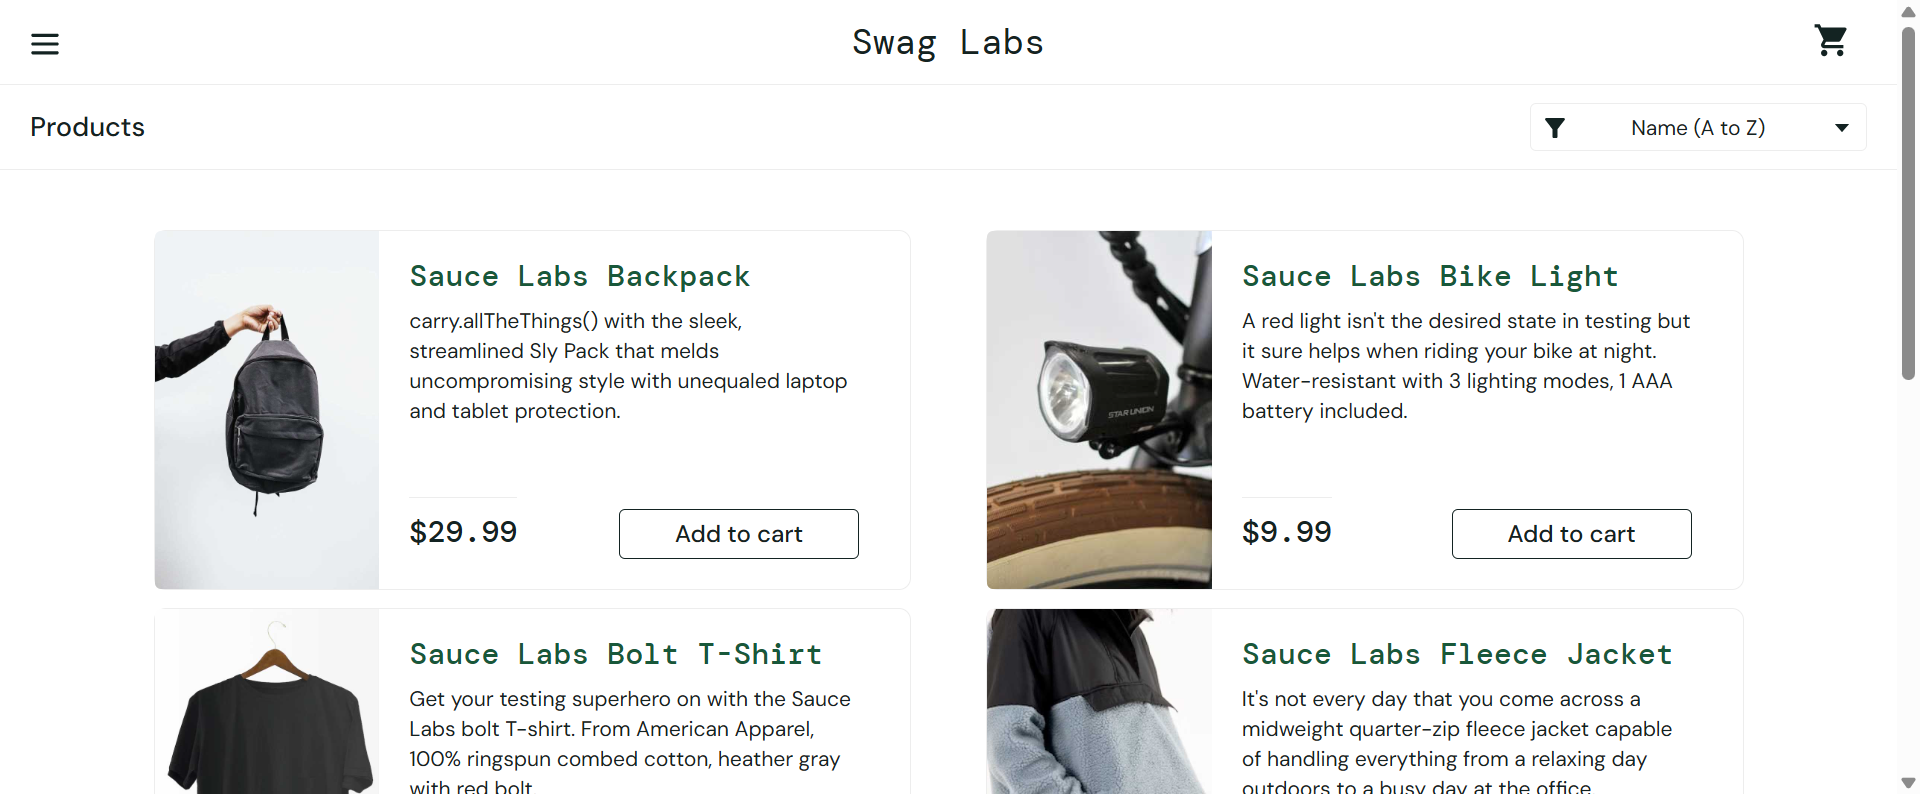
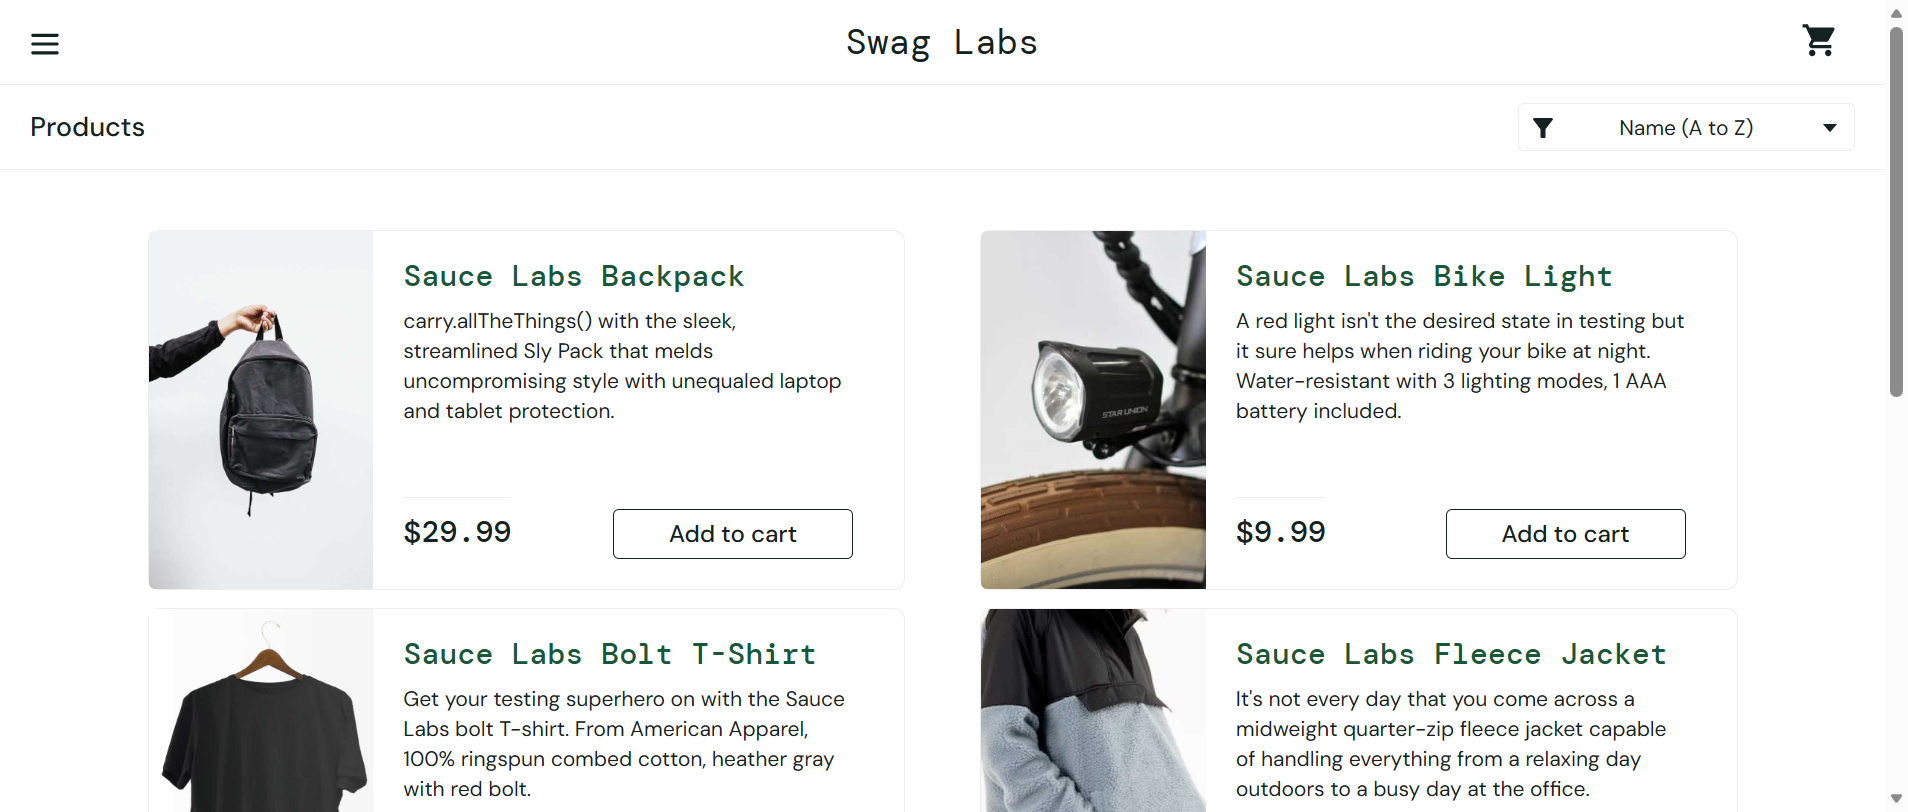
Added cross browser testing, DataProvider and parallel execution

diff --git a/src/test/java/com/saucedemo/base/BaseTest.java b/src/test/java/com/saucedemo/base/BaseTest.java
@@ -4,8 +4,11 @@ import java.time.Duration;
 
 import org.openqa.selenium.WebDriver;
 import org.openqa.selenium.chrome.ChromeDriver;
+import org.openqa.selenium.edge.EdgeDriver;
 import org.testng.annotations.AfterMethod;
 import org.testng.annotations.BeforeMethod;
+import org.testng.annotations.Optional;
+import org.testng.annotations.Parameters;
 
 import com.saucedemo.utils.ConfigReader;
 
@@ -13,25 +16,41 @@ import io.github.bonigarcia.wdm.WebDriverManager;
 
 public class BaseTest {
 
-    protected WebDriver driver;
-
+	protected WebDriver driver;
+    ConfigReader cr= new ConfigReader();
+    
+    @Parameters("browser")
     @BeforeMethod
-    public void setup() {
-      ConfigReader cr= new ConfigReader();
-
-        
-        WebDriverManager.chromedriver().setup();
-         driver = new ChromeDriver();
+    public void setup(@Optional("chrome")String browser) {
+      if(browser.equalsIgnoreCase("chrome")||browser.equalsIgnoreCase("ch"))
+      {
+    	  WebDriverManager.chromedriver().setup();
+    	  driver=new ChromeDriver();
+    	  
+      }
+      else if(browser.equalsIgnoreCase("edge"))
+      {
+    	  
+    	  driver=new EdgeDriver();
+    	  
+      }
+      
+      else { throw new IllegalArgumentException("Invalid browser name: " + browser);}
+      
         driver.manage().window().maximize();
         driver.manage().timeouts().implicitlyWait(Duration.ofSeconds(10));
         driver.get(cr.getDataFromConfigReader("url"));
     }
 
-    @AfterMethod
-    public void tearDown() {
+   @AfterMethod
+   public void tearDown() {
 
-        if (driver != null) {
-            driver.quit();
-        }
+       if (driver != null) {
+          driver.quit();
+       }
     }
+
+   public WebDriver getDriver() {
+	    return driver;
+	}
 }

diff --git a/src/test/java/com/saucedemo/utils/ScreenShotUtility.java b/src/test/java/com/saucedemo/utils/ScreenShotUtility.java
@@ -2,34 +2,37 @@ package com.saucedemo.utils;
 
 import java.io.File;
 import java.io.IOException;
+import java.nio.file.Files;
+import java.nio.file.StandardCopyOption;
 
-import org.apache.commons.io.FileUtils;
 import org.openqa.selenium.OutputType;
 import org.openqa.selenium.TakesScreenshot;
 import org.openqa.selenium.WebDriver;
 
 public class ScreenShotUtility {
 
-	  public static void captureScreenshot(WebDriver driver, String testName) {
+    public static void captureScreenshot(WebDriver driver, String fileName) {
 
+        if (driver == null) {
+            System.out.println("Driver is null. Screenshot not captured.");
+            return;
+        }
 
-		    TakesScreenshot ts = (TakesScreenshot) driver;
-		    File src = ts.getScreenshotAs(OutputType.FILE);
+        try {
+            TakesScreenshot ts = (TakesScreenshot) driver;
 
-		    // screenshots folder create hoga agar nahi hai
-		    File folder = new File("./screenshots");
+            File src = ts.getScreenshotAs(OutputType.FILE);
 
-		    if (!folder.exists()) {
-		        folder.mkdir();
-		    }
+            File dest = new File("Screenshots/" + fileName + ".png");
 
-		    File dest = new File(folder, testName + ".png");
+            dest.getParentFile().mkdirs();
 
-		    try {
-		        FileUtils.copyFile(src, dest);
-		        System.out.println("Screenshot saved successfully");
-		    } catch (IOException e) {
-		        e.printStackTrace();
-		    }
-	    }
+            Files.copy(src.toPath(), dest.toPath(), StandardCopyOption.REPLACE_EXISTING);
+
+            System.out.println("Screenshot saved successfully");
+
+        } catch (IOException e) {
+            e.printStackTrace();
+        }
+    }
 }

diff --git a/src/test/java/com/saucedemo/pages/LoginPage.java b/src/test/java/com/saucedemo/pages/LoginPage.java
@@ -7,7 +7,12 @@ import org.openqa.selenium.support.PageFactory;
 
 public class LoginPage {
 
-    private WebDriver driver;
+    WebDriver driver;
+
+    public LoginPage(WebDriver driver) {
+        this.driver = driver;
+        PageFactory.initElements(driver, this);
+    }
 
     @FindBy(id = "user-name")
     private WebElement username;
@@ -17,37 +22,28 @@ public class LoginPage {
 
     @FindBy(id = "login-button")
     private WebElement loginButton;
-
+    
     @FindBy(xpath = "//h3[@data-test='error']")
     private WebElement errorMessage;
 
-    // Constructor
-    public LoginPage(WebDriver driver) {
-        this.driver = driver;
-
-        // IMPORTANT: initialize PageFactory with the SAME driver
-        PageFactory.initElements(this.driver, this);
+    public void enterUsername(String uname) {
+        username.sendKeys(uname);
     }
 
-    public void enterUsername(String user) {
-        username.sendKeys(user);
+    public void enterPassword(String pwd) {
+        password.sendKeys(pwd);
     }
 
-    public void enterPassword(String pass) {
-        password.sendKeys(pass);
-    }
-
-    public void clickLogin() {
+    public void clickLoginButton() {
         loginButton.click();
     }
 
-    public void login(String user, String pass) {
-        enterUsername(user);
-        enterPassword(pass);
-        clickLogin();
+    public void login(String uname, String pwd) {
+        enterUsername(uname);
+        enterPassword(pwd);
+        clickLoginButton();
     }
-
+    
     public String getErrorMessage() {
         return errorMessage.getText();
-    }
-}
+}}

diff --git a/src/test/java/com/saucedemo/utils/ExcelUtility.java b/src/test/java/com/saucedemo/utils/ExcelUtility.java
@@ -1,0 +1,43 @@
+package com.saucedemo.utils;
+import java.io.FileInputStream;
+
+import org.apache.poi.ss.usermodel.Sheet;
+import org.apache.poi.ss.usermodel.Workbook;
+import org.apache.poi.ss.usermodel.WorkbookFactory;
+
+ public class ExcelUtility {
+
+	
+	    public static Object[][] getTestData(String sheetName,String fileLocation) {
+
+	        Object[][] data = null;
+
+	        try {
+	            FileInputStream fis = new FileInputStream(fileLocation);
+
+	            Workbook wb = WorkbookFactory.create(fis);
+
+	            Sheet sheet = wb.getSheet(sheetName);
+
+	            int rows = sheet.getLastRowNum();
+	            int cols = sheet.getRow(0).getLastCellNum();
+
+	            data = new Object[rows][cols];
+
+	            for (int i = 1; i <= rows; i++) {
+	                for (int j = 0; j < cols; j++) {
+	                    data[i - 1][j] = sheet.getRow(i).getCell(j).toString();
+	                }
+	            }
+
+	            wb.close();
+	            fis.close();
+
+	        } catch (Exception e) {
+	            e.printStackTrace();
+	        }
+
+	        return data;
+	    }
+	}
+

diff --git a/src/test/java/com/saucedemo/tests/LoginTest.java b/src/test/java/com/saucedemo/tests/LoginTest.java
@@ -9,6 +9,7 @@ import com.saucedemo.base.BaseTest;
 import com.saucedemo.pages.LoginPage;
 import com.saucedemo.utils.ConfigReader;
 import com.saucedemo.utils.ScreenShotUtility;
+import com.saucedemo.utils.TestDataProvider;
 
 
 
@@ -21,7 +22,7 @@ public class LoginTest extends BaseTest{
 	        LoginPage loginPage = new LoginPage(driver);
 
 	        loginPage.login(cr.getDataFromConfigReader("username"),cr.getDataFromConfigReader("password"));
-	        ScreenShotUtility.captureScreenshot(driver, "LoginSuccess");
+	       // ScreenShotUtility.captureScreenshot(driver, "LoginSuccess");
 	        String currentUrl = driver.getCurrentUrl();
 
 	        Assert.assertTrue(currentUrl.contains("inventory"),
@@ -42,6 +43,18 @@ public class LoginTest extends BaseTest{
 		 
 	 
 	 }
+	 
+
+@Test(dataProvider = "loginDataFromExcel",
+      dataProviderClass = TestDataProvider.class)
+public void loginDataProviderTest(String username, String password) {
+
+    LoginPage lp = new LoginPage(driver);
+
+    lp.login(username, password);
+
+    Reporter.log(username + " : " + password,true);
+}
 	}
 
 

diff --git a/src/test/java/TestListeners/TestListener.java b/src/test/java/TestListeners/TestListener.java
@@ -2,6 +2,7 @@ package TestListeners;
 
 
 
+import org.openqa.selenium.WebDriver;
 import org.testng.ITestContext;
 import org.testng.ITestListener;
 import org.testng.ITestResult;
@@ -25,12 +26,18 @@ public class TestListener extends BaseTest implements ITestListener {
     public void onTestSuccess(ITestResult result) {
         System.out.println("Test Passed : " + result.getName());
     }
-
     @Override
     public void onTestFailure(ITestResult result) {
-        System.out.println("Test Failed : " + result.getName());
 
-        ScreenShotUtility.captureScreenshot(driver, result.getName());
+        Object testClass = result.getInstance();
+
+        if (testClass instanceof BaseTest) {
+            WebDriver driver = ((BaseTest) testClass).getDriver();
+
+            if (driver != null) {
+                ScreenShotUtility.captureScreenshot(driver, result.getName());
+            }
+        }
     }
     @Override
     public void onFinish(ITestContext context) {

diff --git a/src/test/java/com/saucedemo/utils/TestDataProvider.java b/src/test/java/com/saucedemo/utils/TestDataProvider.java
@@ -1,0 +1,25 @@
+package com.saucedemo.utils;
+
+import org.testng.annotations.DataProvider;
+
+public class TestDataProvider {
+	@DataProvider(name="loginData",parallel=true)
+	public Object[][] getData()
+	{
+		
+		Object[][] data= { {"standard_user", "secret_sauce"},
+	            {"problem_user", "secret_sauce"},
+	            {"locked_out_user", "wrong_password"}
+	};
+		return data;
+
+}
+@DataProvider(name="loginDataFromExcel")
+		
+public Object[][] getDataFromExcel()
+{
+	
+
+	return ExcelUtility.getTestData("LoginData", "./TestData/TestData.xlsx");
+
+}}

diff --git a/src/test/java/com/saucedemo/tests/InventoryTests.java b/src/test/java/com/saucedemo/tests/InventoryTests.java
@@ -15,7 +15,7 @@ import io.opentelemetry.exporter.logging.SystemOutLogRecordExporter;
 
 public class InventoryTests extends BaseTest {
 	
-	@Test(priority=3,groups= {"smoke","regression"})
+	@Test(priority=3 , groups= {"smoke","regression"})
 	public void verifyInventoryPageAndAddToCart() {
 		System.out.println("Smoke group detected for inventory");
 		LoginPage lp=new LoginPage(driver);

diff --git a/src/test/java/com/saucedemo/tests/CheckOutFlowTest.java b/src/test/java/com/saucedemo/tests/CheckOutFlowTest.java
@@ -15,7 +15,7 @@ import com.saucedemo.utils.FrameWorkConstants;
 import com.saucedemo.utils.ScrollUtilityMethods;
 
 public class CheckOutFlowTest extends BaseTest {
-@Test
+@Test(priority=5 ,groups= {"regression"})
 public void verifyCheckOutFlowTest()
 {
 	LoginPage lp=new LoginPage(driver);

diff --git a/src/test/java/com/saucedemo/tests/NewTest.java b/src/test/java/com/saucedemo/tests/NewTest.java
@@ -1,0 +1,9 @@
+package com.saucedemo.tests;
+
+import org.testng.annotations.Test;
+
+public class NewTest {
+  @Test
+  public void f() {
+  }
+}
